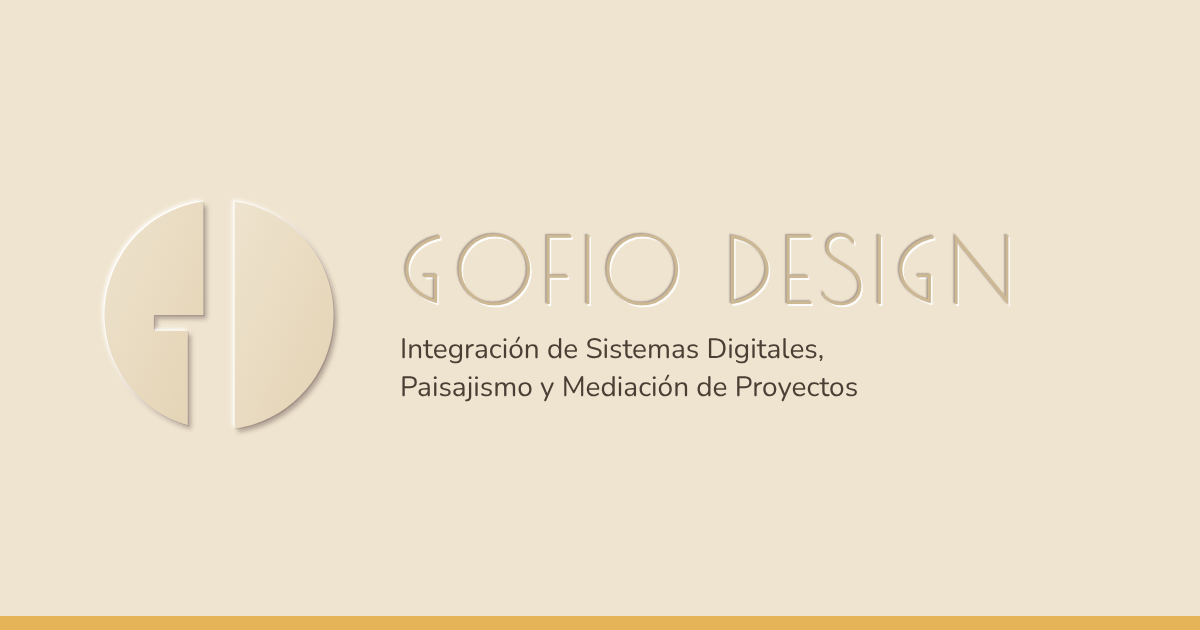
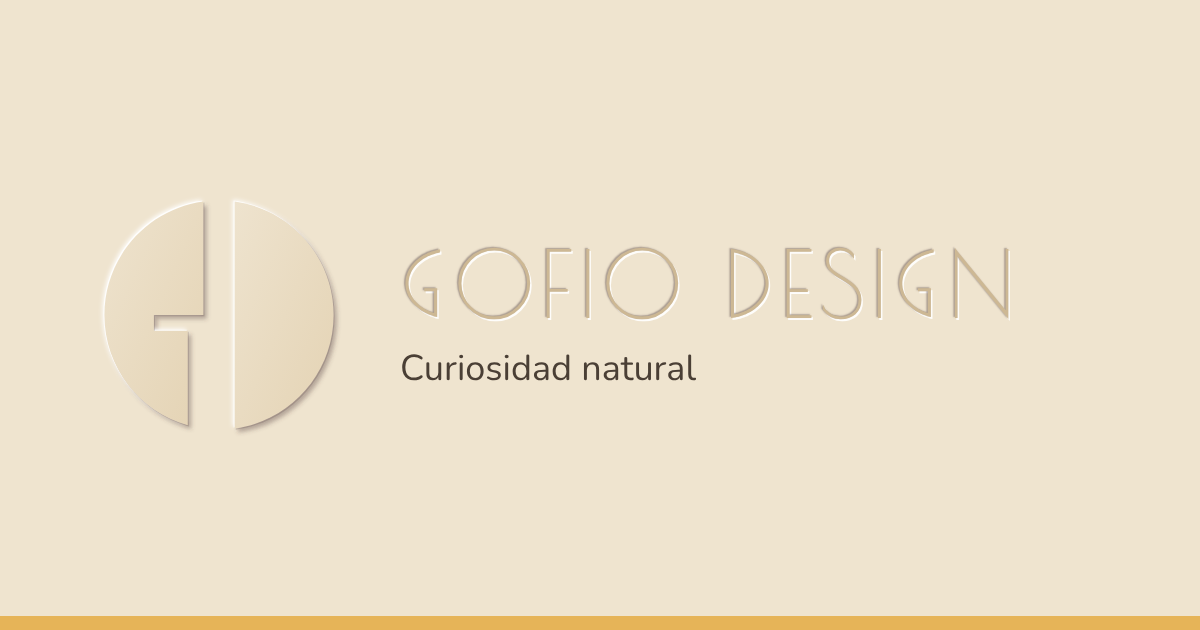
Tagline nuevo: «Curiosidad natural» y línea de método en la portada
- Portada ES/EN/FR/DE: tagline y «Del problema a la idea, de la idea al concepto»
- og-image con el tagline nuevo
- Caché de CSS en ?v=20261109k

Claude-Session: https://claude.ai/code/session_01NeU9qfxbNB6KZDSGaHYsHd

diff --git a/de.html b/de.html
@@ -32,7 +32,7 @@
       rel="stylesheet"
       href="https://cdnjs.cloudflare.com/ajax/libs/font-awesome/6.5.1/css/all.min.css"
     />
-    <link rel="stylesheet" href="style.css?v=20261109j" />
+    <link rel="stylesheet" href="style.css?v=20261109k" />
     <link rel="icon" href="/favicon.ico" sizes="any" />
     <link rel="icon" href="/assets/brand/favicon.svg" type="image/svg+xml" />
     <link rel="apple-touch-icon" href="/assets/brand/apple-touch-icon.png" />
@@ -52,10 +52,8 @@
         <img class="logo-mark" src="assets/brand/logo-sello.svg" alt="Gofio Design" width="140" height="140" />
       </div>
       <h1>GOFIO DESIGN</h1>
-      <p>
-        Integration digitaler Systeme, Landschaftsarchitektur &
-        Projektvermittlung
-      </p>
+      <p class="tagline">Natürliche Neugier</p>
+      <p class="method">Vom Problem zur Idee, von der Idee zum Konzept</p>
     </header>
     <main>
       <section class="layer">

diff --git a/fr.html b/fr.html
@@ -33,7 +33,7 @@
       href="https://cdnjs.cloudflare.com/ajax/libs/font-awesome/6.5.1/css/all.min.css"
     />
 
-    <link rel="stylesheet" href="style.css?v=20261109j" />
+    <link rel="stylesheet" href="style.css?v=20261109k" />
     <link rel="icon" href="/favicon.ico" sizes="any" />
     <link rel="icon" href="/assets/brand/favicon.svg" type="image/svg+xml" />
     <link rel="apple-touch-icon" href="/assets/brand/apple-touch-icon.png" />
@@ -53,10 +53,8 @@
         <img class="logo-mark" src="assets/brand/logo-sello.svg" alt="Gofio Design" width="140" height="140" />
       </div>
       <h1>GOFIO DESIGN</h1>
-      <p>
-        Intégration de Systèmes Numériques, Architecture de Paysage & Médiation
-        de Projets
-      </p>
+      <p class="tagline">Curiosité naturelle</p>
+      <p class="method">Du problème à l'idée, de l'idée au concept</p>
     </header>
     <main>
       <section class="layer">

diff --git a/index.html b/index.html
@@ -31,7 +31,7 @@
       rel="stylesheet"
       href="https://cdnjs.cloudflare.com/ajax/libs/font-awesome/6.5.1/css/all.min.css"
     />
-    <link rel="stylesheet" href="style.css?v=20261109j" />
+    <link rel="stylesheet" href="style.css?v=20261109k" />
     <link rel="icon" href="/favicon.ico" sizes="any" />
     <link rel="icon" href="/assets/brand/favicon.svg" type="image/svg+xml" />
     <link rel="apple-touch-icon" href="/assets/brand/apple-touch-icon.png" />
@@ -51,9 +51,8 @@
         <img class="logo-mark" src="assets/brand/logo-sello.svg" alt="Gofio Design" width="140" height="140" />
       </div>
       <h1>GOFIO DESIGN</h1>
-      <p>
-        Integración de Sistemas Digitales, Paisajismo y Mediación de Proyectos
-      </p>
+      <p class="tagline">Curiosidad natural</p>
+      <p class="method">Del problema a la idea, de la idea al concepto</p>
     </header>
     <main>
       <section class="layer">

diff --git a/en.html b/en.html
@@ -33,7 +33,7 @@
       href="https://cdnjs.cloudflare.com/ajax/libs/font-awesome/6.5.1/css/all.min.css"
     />
 
-    <link rel="stylesheet" href="style.css?v=20261109j" />
+    <link rel="stylesheet" href="style.css?v=20261109k" />
     <link rel="icon" href="/favicon.ico" sizes="any" />
     <link rel="icon" href="/assets/brand/favicon.svg" type="image/svg+xml" />
     <link rel="apple-touch-icon" href="/assets/brand/apple-touch-icon.png" />
@@ -53,9 +53,8 @@
         <img class="logo-mark" src="assets/brand/logo-sello.svg" alt="Gofio Design" width="140" height="140" />
       </div>
       <h1>GOFIO DESIGN</h1>
-      <p>
-        Digital Systems Integration, Landscape Architecture & Project Mediation
-      </p>
+      <p class="tagline">Natural curiosity</p>
+      <p class="method">From problem to idea, from idea to concept</p>
     </header>
     <main>
       <section class="layer">

diff --git a/proyectos.html b/proyectos.html
@@ -24,7 +24,7 @@
       rel="stylesheet"
       href="https://cdnjs.cloudflare.com/ajax/libs/font-awesome/6.5.1/css/all.min.css"
     />
-    <link rel="stylesheet" href="style.css?v=20261109j" />
+    <link rel="stylesheet" href="style.css?v=20261109k" />
     <link rel="icon" href="/favicon.ico" sizes="any" />
     <link rel="icon" href="/assets/brand/favicon.svg" type="image/svg+xml" />
     <link rel="apple-touch-icon" href="/assets/brand/apple-touch-icon.png" />

diff --git a/style.css b/style.css
@@ -160,6 +160,19 @@ footer {
     1px 1px 0 rgba(255, 255, 255, 0.85);
 }
 
+.hero .tagline {
+  font-size: 1.35rem;
+  font-weight: 600;
+  letter-spacing: 0.04em;
+  color: var(--brown);
+  margin: 6px 0 4px;
+}
+.hero .method {
+  font-size: 1rem;
+  color: var(--ink);
+  margin: 0;
+}
+
 .cta-container {
   text-align: center;
   padding: 60px 20px; /* Espaciado para que respire al final */
